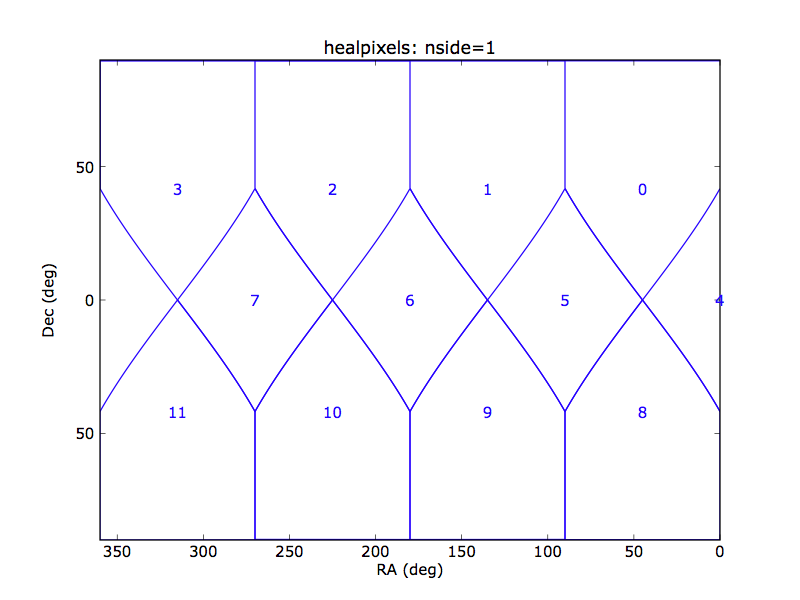
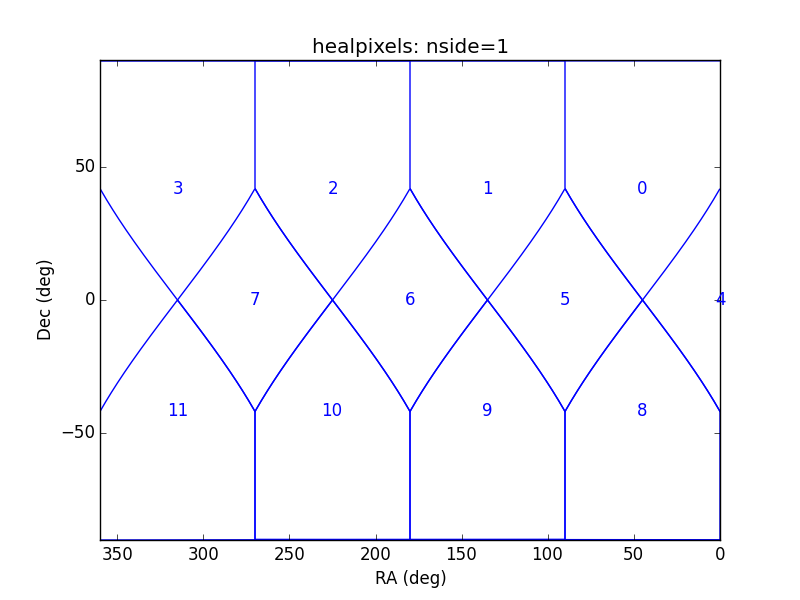
Add python code to create healpix maps

diff --git a/util/healpix-map.py b/util/healpix-map.py
@@ -1,0 +1,54 @@
+import matplotlib
+matplotlib.use('Agg')
+import pylab as plt
+import numpy as np
+
+from astrometry.util.util import *
+from astrometry.util.starutil_numpy import *
+
+def plot_healpix_boundaries(nside):
+    for hp in range(12*nside**2):
+        # walk healpix boundary in ra,dec
+        rd = []
+        dd = np.linspace(0, 1, 100)
+        x = 0
+        rd.extend([healpix_to_radecdeg(hp, nside, x, y)
+                   for y in dd])
+        y = 1
+        rd.extend([healpix_to_radecdeg(hp, nside, x, y)
+                   for x in dd])
+        x = 1
+        rd.extend([healpix_to_radecdeg(hp, nside, x, y)
+                   for y in reversed(dd)])
+        y = 0
+        rd.extend([healpix_to_radecdeg(hp, nside, x, y)
+                   for x in reversed(dd)])
+
+        rd = np.array(rd)
+        ra,dec = rd[:,0], rd[:,1]
+
+        # Put label in center of healpix
+        xyz = radectoxyz(ra, dec)
+        xyz = np.mean(xyz, axis=0)
+        rc,dc = xyztoradec(xyz)
+        plt.text(rc, dc, '%i' % hp, color='b')
+
+        # handle RA wrap-around
+        if rc > 180:
+            ra += (ra < 90)*360
+        else:
+            ra -= (ra > 270)*360
+        plt.plot(ra, dec, 'b-')
+
+    plt.axis([360,0,-90,90])
+
+
+if __name__ == '__main__':
+    plt.clf()
+    plot_healpix_boundaries(1)
+    plt.savefig('hp1.png')
+
+    plt.clf()
+    plot_healpix_boundaries(2)
+    plt.savefig('hp2.png')
+    

diff --git a/util/test_healpix.c b/util/test_healpix.c
@@ -153,7 +153,7 @@ static void hpmap(int nside, const char* fn) {
   fprintf(stderr, "clf()\n");
 }
 
-void DISABLED_test_make_map(CuTest* ct) {
+void test_make_map(CuTest* ct) {
   fprintf(stderr, "%s", "from pylab import *\n");
   fprintf(stderr, "clf()\n"
 	  "def wrapxy(x,y):\n"
